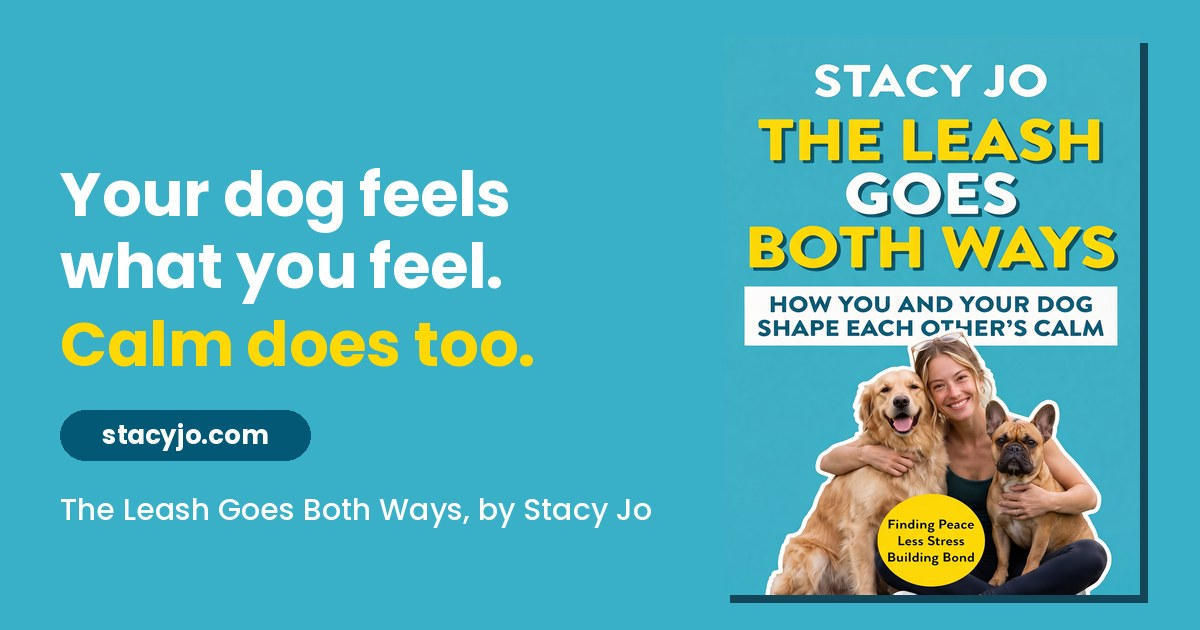
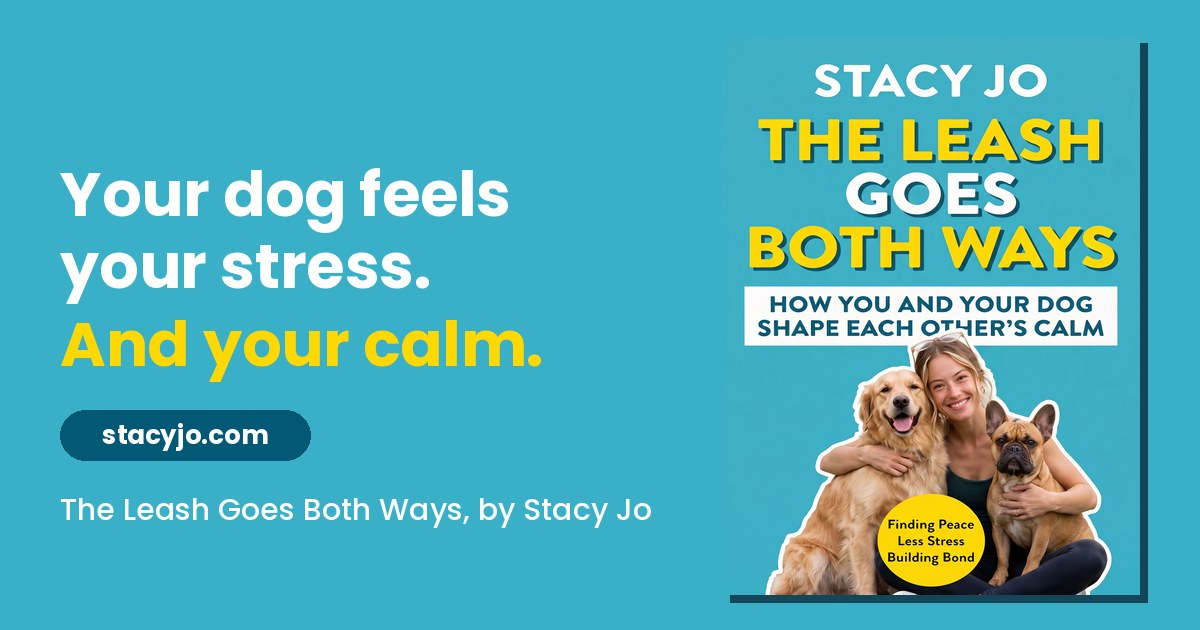
Clarify the hero: "Your dog feels your stress. And your calm."
"Calm does too" could read as calm doing the feeling. Update the share image and brief to match.

Changed region(s): [[0.0308, 0.3619, 0.4625, 0.6032]]

diff --git a/BRIEF.md b/BRIEF.md
@@ -169,7 +169,7 @@ Sections in order. Copy is final unless marked `{{…}}`.
 ### 6.3 Hero (full-bleed `--teal-cover`)
 
 - Eyebrow: **New book by Stacy Jo**
-- H1: **Your dog feels what you feel.** *(line break)* **Calm does too.** ("Calm does too." in yellow)
+- H1: **Your dog feels your stress.** *(line break)* **And your calm.** ("And your calm." in yellow)
 - Subhead: *The Leash Goes Both Ways* is a calm-first method for the stress loop between you and your dog, so walks, guests, and everyday life get easier for both of you.
 - Buttons: **Get the book: $19** (BuyButton → ebook) · **Read a free chapter** (secondary → `/free-chapter`)
 - Fine print: Instant PDF download · 14-day money-back guarantee
